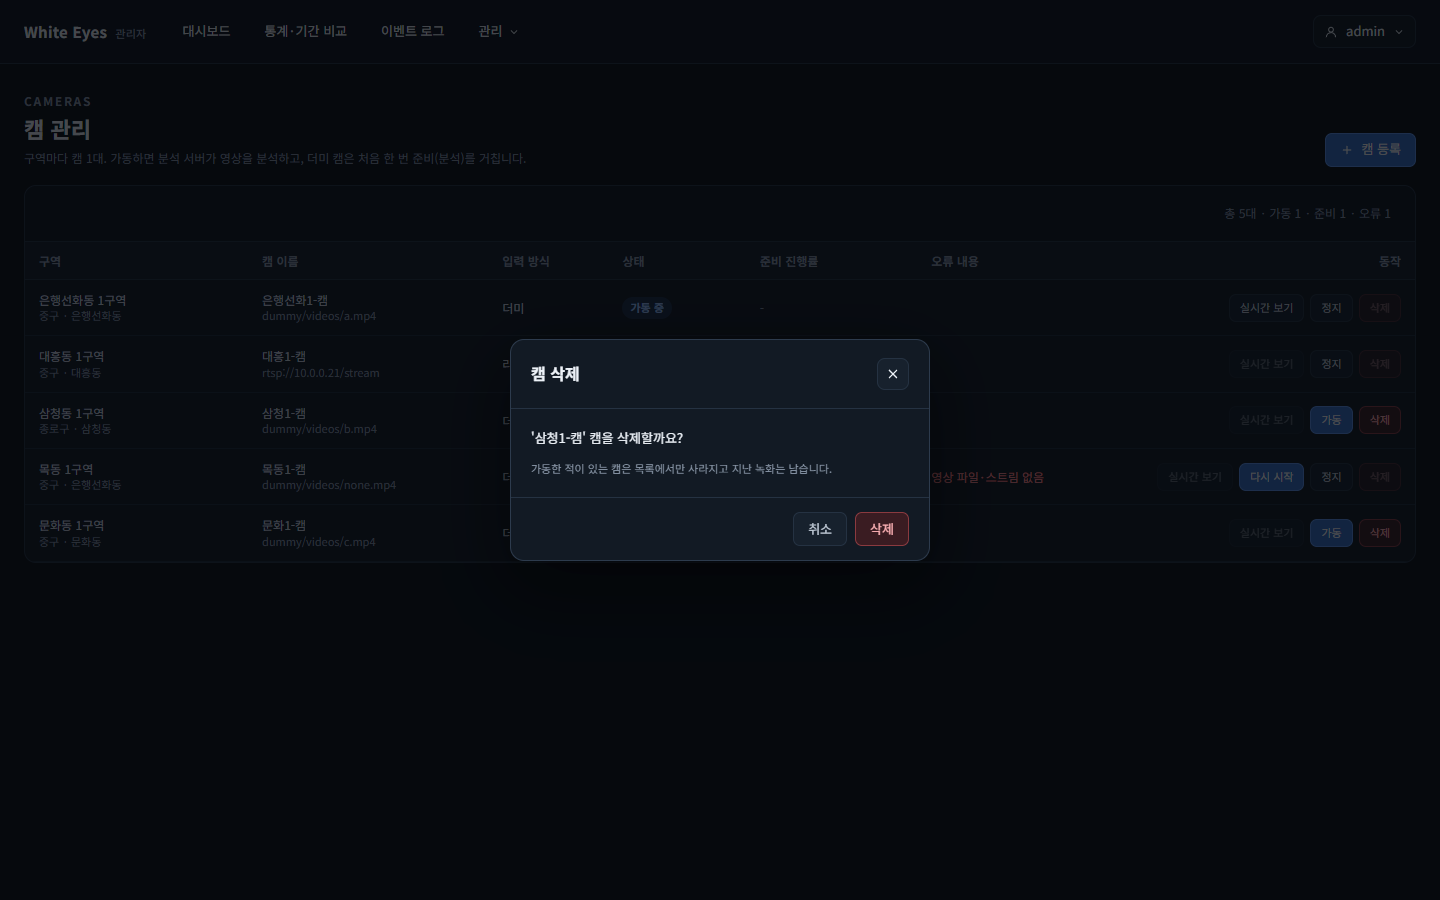
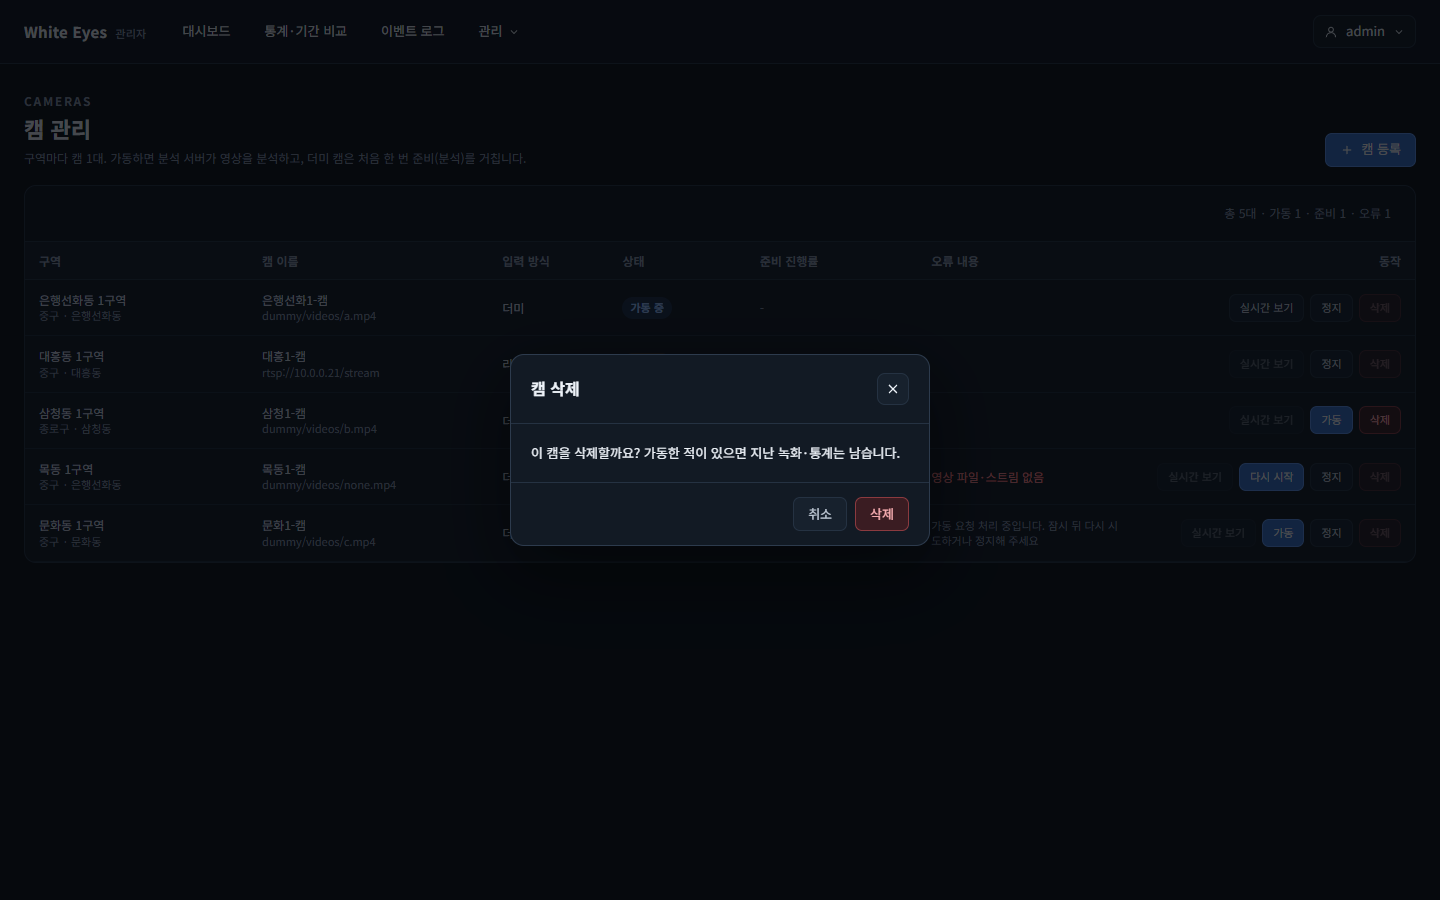
docs: 캠 삭제 확인 창 캡처를 새 문구로 갱신하고 가동 요청 중 캡처를 더함 (spring #73)

Changed region(s): [[0.3438, 0.4044, 0.6562, 0.6222], [0.875, 0.56, 0.9375, 0.6222], [0.6875, 0.56, 0.7188, 0.6222]]

diff --git a/test-reports/2026-10-23-stage3-camera-delete/README.md b/test-reports/2026-10-23-stage3-camera-delete/README.md
@@ -3,27 +3,31 @@
 spring #73(FNC-A-023 캠 삭제)의 캠 관리 화면(SCR-A-006)을 실제 브라우저(Edge 헤드리스, 1440×900)로 조작하며 캡처했다. 시안은 `design/png/`.
 
 - 환경: 이 PC에 Docker·MySQL이 없어 **관리자 앱 전체를 띄우지 않았다.** 대신 `cameras.html` 본문, 공통 틀의 헤더·모달 조각, `cameras.js`·`cameras.css`·`we.css` 같은 **구현 파일을 그대로** 서빙하는 임시 서버(커밋하지 않음)에 `GET /api/v1/manage/cameras`와 `DELETE …/{id}`만 명세대로 흉내 냈다(삭제는 정지가 아니면 409 `CAMERA_NOT_STOPPED`, 가동 이력 있으면 `SOFT`). 헤더의 혼잡 단계 범례(`/api/v1/meta/levels`)는 흉내 내지 않아 비어 있다.
-- 서버 쪽 동작(HARD/SOFT 분기, 409, 404, 작업 기록, 롤백)은 이 캡처가 아니라 spring `CameraDeleteTest`(9개)로 확인했다.
-- 캠 5대(가동 중·준비 중·정지·오류·정지)는 시안 모양에 맞춘 시험 값이다.
+- 서버 쪽 동작(HARD/SOFT 분기, 409, 가동 요청 상태 거부, 404, 작업 기록, 롤백)은 이 캡처가 아니라 spring `CameraDeleteTest`(10개)로 확인했다.
+- 캠 5대(가동 중·준비 중·정지·오류·가동 요청 중인 정지)는 시안 모양에 맞춘 시험 값이다. 마지막 행(문화1-캠)이 STOPPED이면서 `runRequested=true`인 캠이다.
+- 이 보고서는 PM 리뷰(spring #172 요청 1~5) 반영 뒤 캡처 02·04를 새 문구로 다시 찍고 05를 더했다.
 
 | 화면 | 시안 | 구현 |
 |---|---|---|
 | SCR-A-006 캠 관리: 행마다 삭제 버튼(정지 행만 켜짐) | ![](../../design/png/SCR-A-006-cameras.png) | ![](01-cameras-delete-buttons.png) |
 | FNC-A-023 삭제 확인 창(정지 행에서 '삭제' 누름) | - | ![](02-delete-confirm.png) |
 | 확인 뒤 목록에서 제거, 요약 5대 → 4대 | - | ![](03-after-delete.png) |
-| 정지가 아닌 캠을 서버가 거부(409)할 때 토스트 | - | ![](04-conflict-toast.png) |
+| 서버가 거부(409)할 때 토스트('정지 상태에서만 처리할 수 있습니다. 먼저 캠을 정지해 주세요.') | - | ![](04-conflict-toast.png) |
+| STOPPED이면서 가동 요청 상태(마지막 행): 삭제 꺼짐, 안내 문구, '정지' 버튼 보임 | - | ![](05-run-pending.png) |
 
 ## 확인한 것
-- 삭제 버튼은 모든 행에 있고 **STOPPED 행에서만 켜진다**(가동 중·준비 중·오류 행은 꺼짐). 화면 명세(screens.md '목록 / 삭제')의 "STOPPED일 때만, 확인 창"을 따랐다.
-- 삭제를 누르면 확인 창이 뜨고 캠 이름이 들어간다. '취소'·닫기·바깥 클릭·Esc로 닫으면 서버 요청이 없다(서버 로그 0건). '삭제'를 누르면 `DELETE /api/v1/manage/cameras/3`이 한 번 나가고 목록에서 그 행이 빠지며 요약이 갱신된다.
+- 삭제 버튼은 모든 행에 있고 **STOPPED이면서 가동 요청 상태가 아닌 행에서만 켜진다**(가동 중·준비 중·오류·가동 요청 중인 행은 꺼짐). 화면 명세(screens.md '목록 / 삭제')를 따랐다.
+- **STOPPED이면서 가동 요청 상태(`run_requested=1`)인 캠**은 삭제를 끄고 '오류 내용' 칸에 "가동 요청 처리 중입니다. 잠시 뒤 다시 시도하거나 정지해 주세요"를 보이며 삭제 버튼에 같은 title을 단다. 이때 **'정지' 버튼도 보인다**(05). 가동 도중 앱이 멈춰 이 상태가 남아도 '정지'로 빠져나올 수 있다.
+- 삭제를 누르면 확인 창에 "이 캠을 삭제할까요? 가동한 적이 있으면 지난 녹화·통계는 남습니다."가 뜬다(02). 화면은 가동 이력을 몰라 이력별로 문구를 나누지 않는다. '취소'·닫기·바깥 클릭·Esc로 닫으면 서버 요청이 없다(서버 로그 0건). '삭제'를 누르면 `DELETE /api/v1/manage/cameras/3`이 한 번 나가고 목록에서 그 행이 빠지며 요약이 갱신된다.
 - 요청이 끝나기 전에는 창을 닫거나 다시 누를 수 없다(중복 요청 방지).
-- 서버가 409를 주면 서버 메시지('정지된 캠만 삭제할 수 있습니다.')가 토스트로 뜬다(`api.js` 공통 처리).
-- 캠 이름은 `textContent`로만 넣는다(code-conventions 5-3).
+- 서버가 409를 주면 서버 메시지가 토스트로 뜬다(`api.js` 공통 처리, 04). 오류 코드는 삭제·수정이 함께 쓰는 `CAMERA_NOT_STOPPED`다.
+- 오류 캠 등 '오류 내용'이 있으면 그 내용이 먼저 보이고, 없고 가동 요청 중이면 안내가 보인다.
 
 ## 시안과 다른 점
 - 시안의 '오류' 행은 삭제 버튼이 켜져 있지만, 명세(screens.md, FNC-A-023 처리 순서 1: STOPPED 확인, 아니면 409)는 정지일 때만이라 **명세를 따라 오류 행은 꺼 두었다.** 오류 캠을 지우려면 먼저 '정지'를 누른다. 시안을 고치는 PR이 필요하면 따로 올린다.
 - 시안의 '수정' 버튼(FNC-A-019, 3단계 다른 이슈)·필터·페이지 번호·실시간 보기 위치는 이 이슈 범위가 아니라 건드리지 않았다.
 - 삭제 확인 창은 시안에 없다(명세는 '확인 창'만 요구). 등록 창과 같은 모달 모양(`we.css`)으로 작게 만들었다.
+- 가동 요청 중 안내와 '정지' 노출(05)도 시안에 없다. PM 결정(spring #172 리뷰)에 따라 screens.md·admin.md에 같은 내용을 적었다.
 
 ## 확인하지 못한 것
 - 실제 관리자 앱·DB로 화면 → API → DB까지 이어서 누르는 확인. 서버 동작은 `CameraDeleteTest`(H2)로 따로 확인했다.
